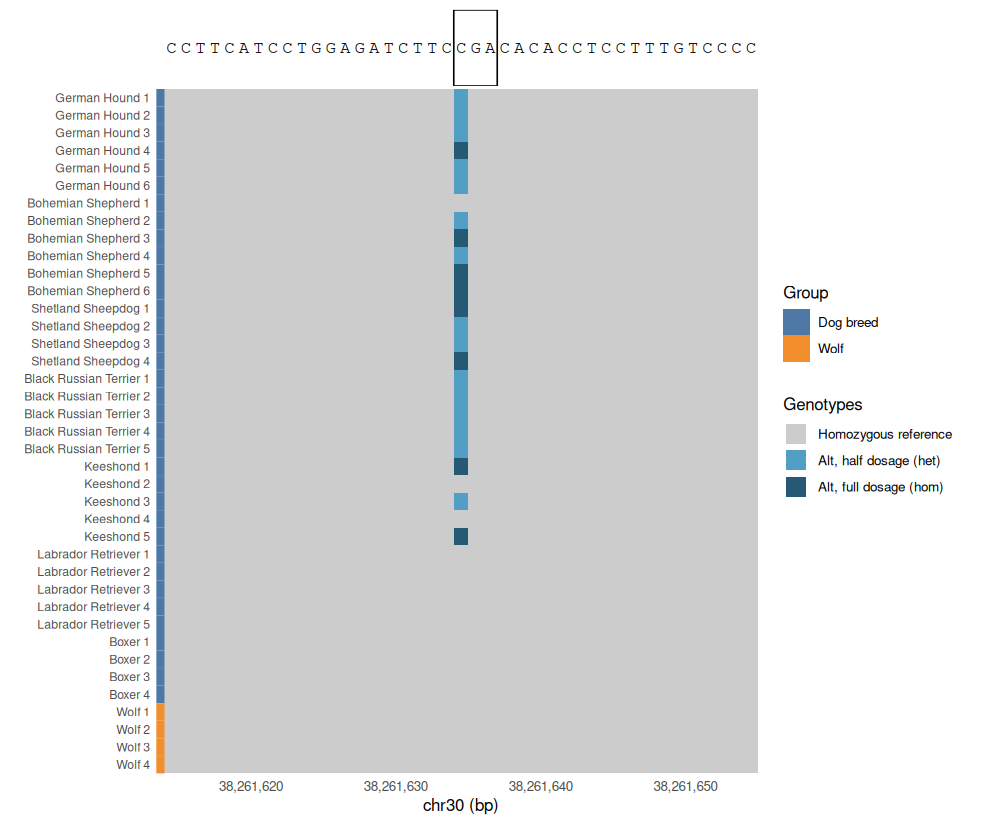
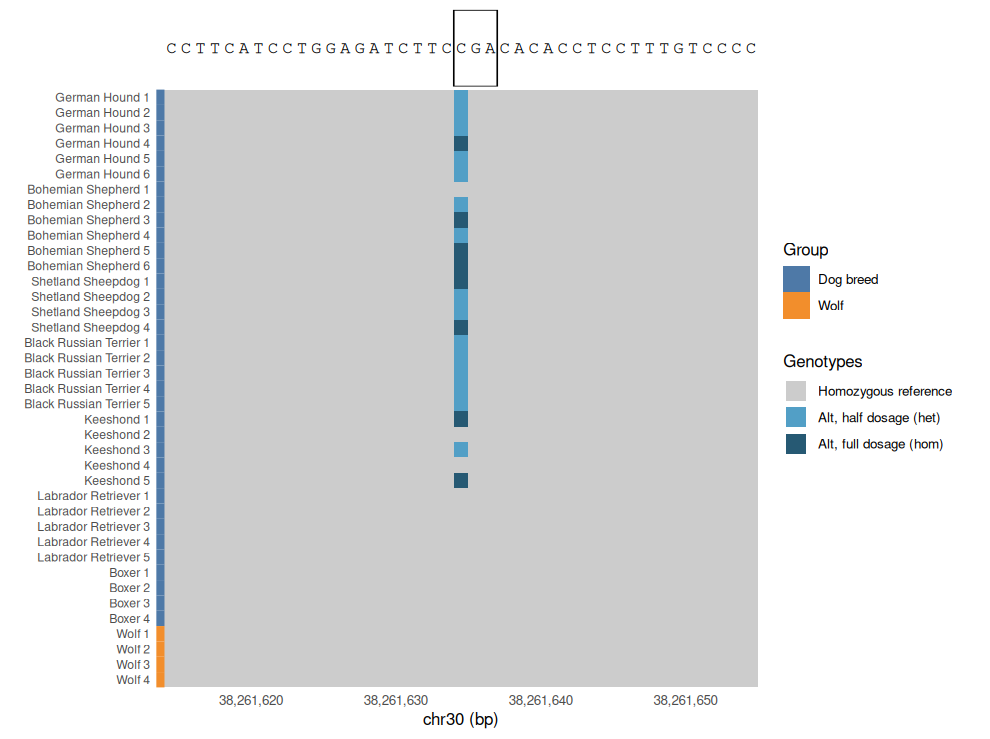
A variant matrix stacks at its display's rowHeight
jbrowse_variants keeps the display's rowHeight, and jbrowse_stack gives each
row that many pixels where it would otherwise fit the matrix into a 100 pixel
display. The Dog10K tutorial's 39-row matrix sets 20 in place of a hand-set
patchwork layout, and the selection-scan stack drops a suppressWarnings that
had nothing to suppress: the chr prefix already reads as one contig.

diff --git a/docs/tutorials/dog10k_lof.md b/docs/tutorials/dog10k_lof.md
@@ -203,6 +203,7 @@ codon 373, and the variant sits on its first base:
 ``` r
 display <- list(
   filter = "jexl:feature.start == 38261634",
+  rowHeight = 20,
   rowColor = list(field = "group"),
   rows = list(domain = panel$name,
     labels = setNames(as.list(panel$label), panel$name)))
@@ -221,8 +222,7 @@ codon <- ggplot(tibble(x = 38261614 + seq_along(bases) - 0.5, base = bases),
   geom_text(family = "mono", size = 4) +
   theme_void() +
   ylim(0.5, 1.5)
-fig <- jbrowse_stack(codon, genotypes) +
-  patchwork::plot_layout(heights = c(1, 9))
+fig <- jbrowse_stack(codon, genotypes)
 ```
 
 

diff --git a/docs/tutorials/population_genomics.md b/docs/tutorials/population_genomics.md
@@ -267,9 +267,9 @@ sweep <- c(12130000, 12200000)
 genes <- jbrowse_features(genes_adapter, locus, width = 1200)
 scan_at <- function(bigwig) jbrowse_wiggle(bigwig, "2R", 12000000 - 1, 12400000,
   width = 1200)
-fig <- suppressWarnings(jbrowse_stack(`RefSeq genes` = genes,
+fig <- jbrowse_stack(`RefSeq genes` = genes,
   `Tajima's D` = scan_at(tajd_bw), π = scan_at(pi_bw),
-  `called variants` = scan_at(sites_bw))) &
+  `called variants` = scan_at(sites_bw)) &
   annotate("rect", xmin = sweep[1], xmax = sweep[2], ymin = -Inf,
     ymax = Inf, fill = "#f0b429", alpha = 0.25)
 ```
